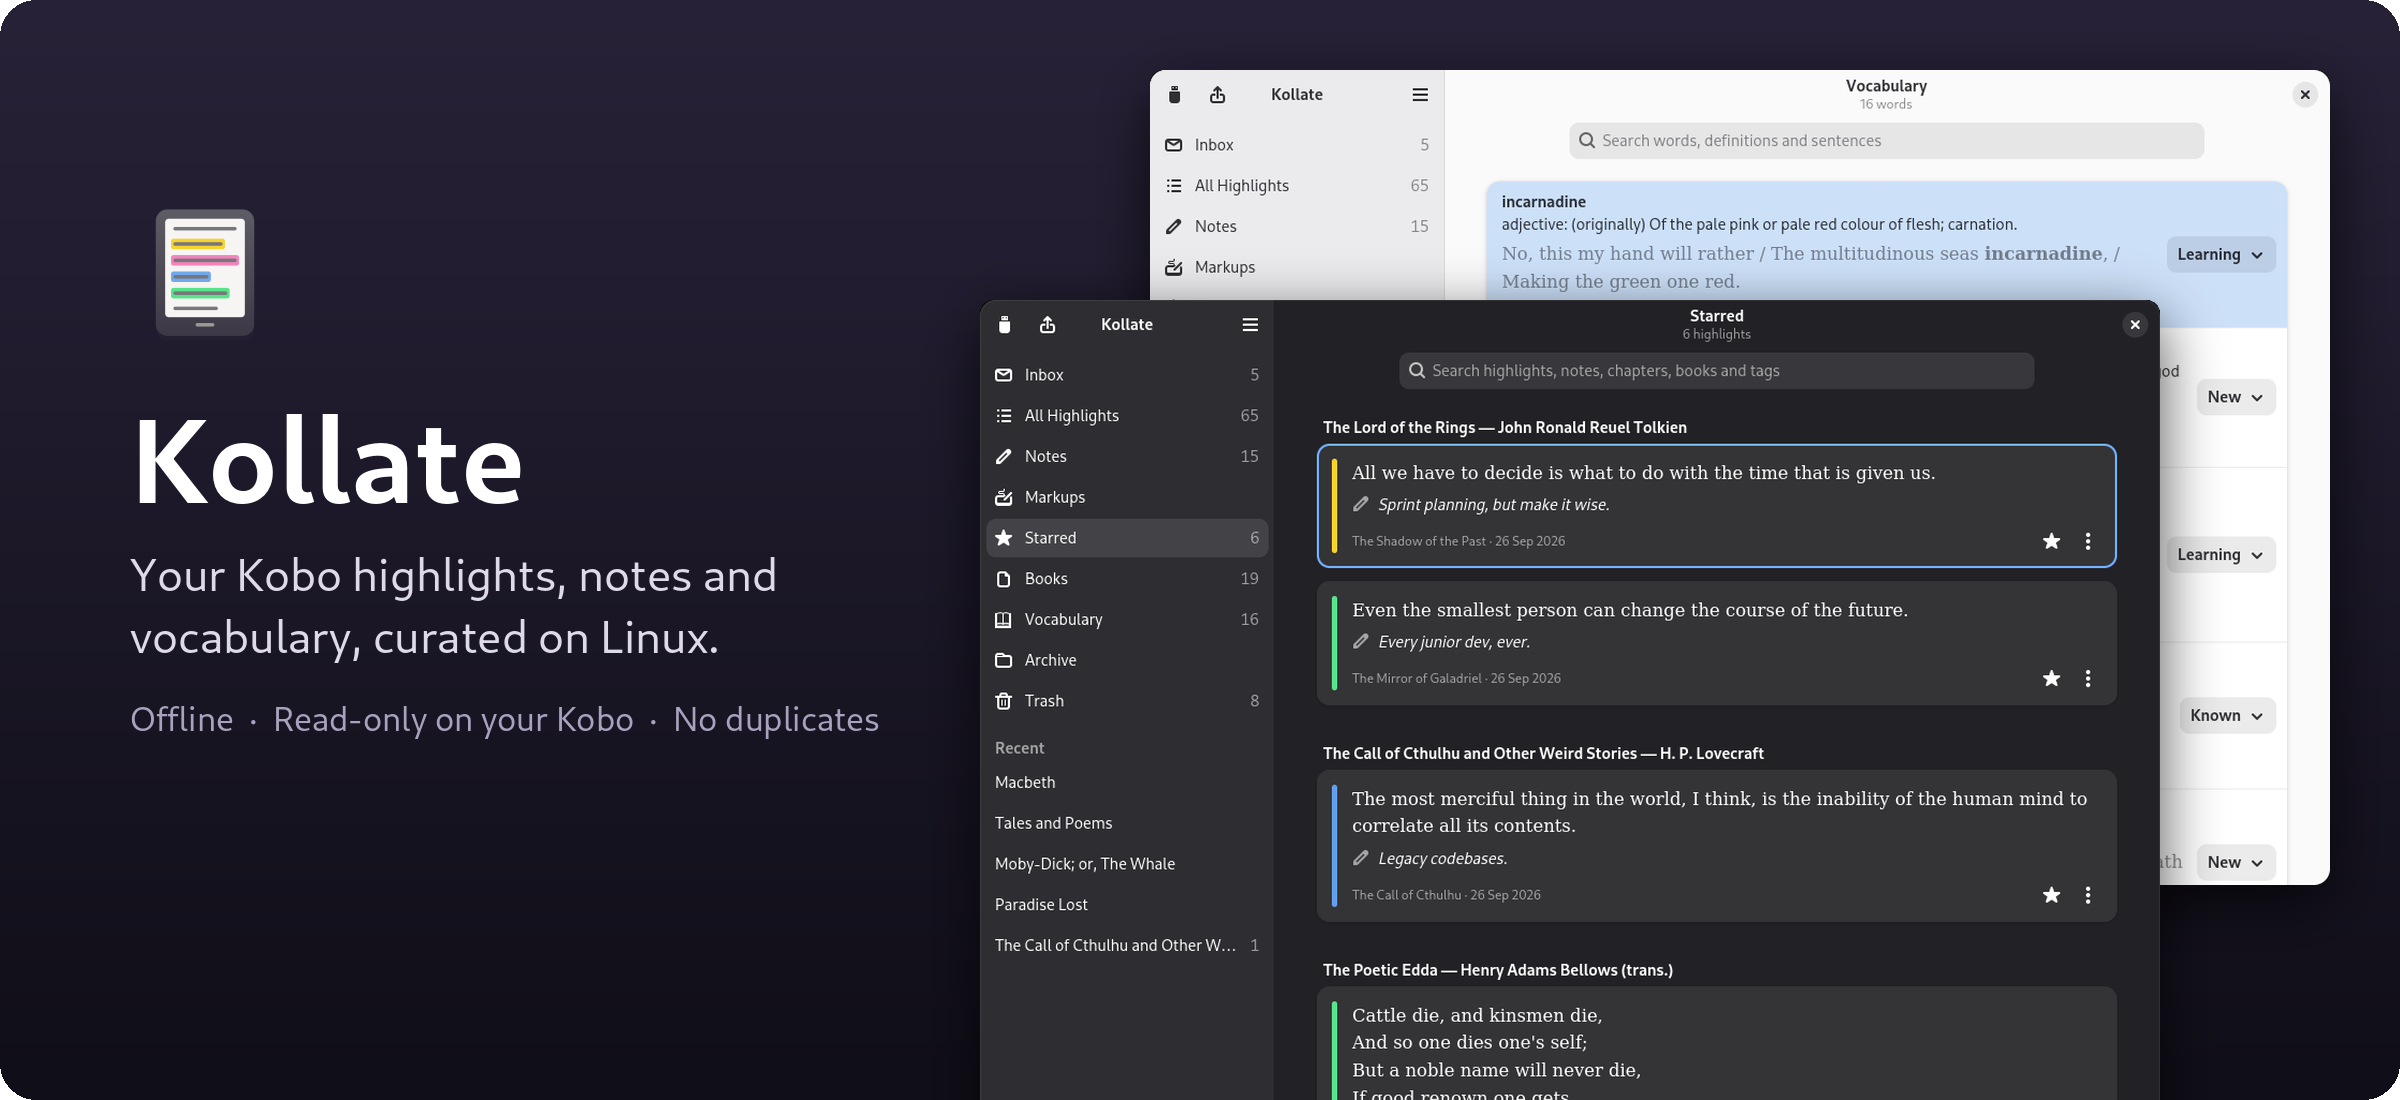
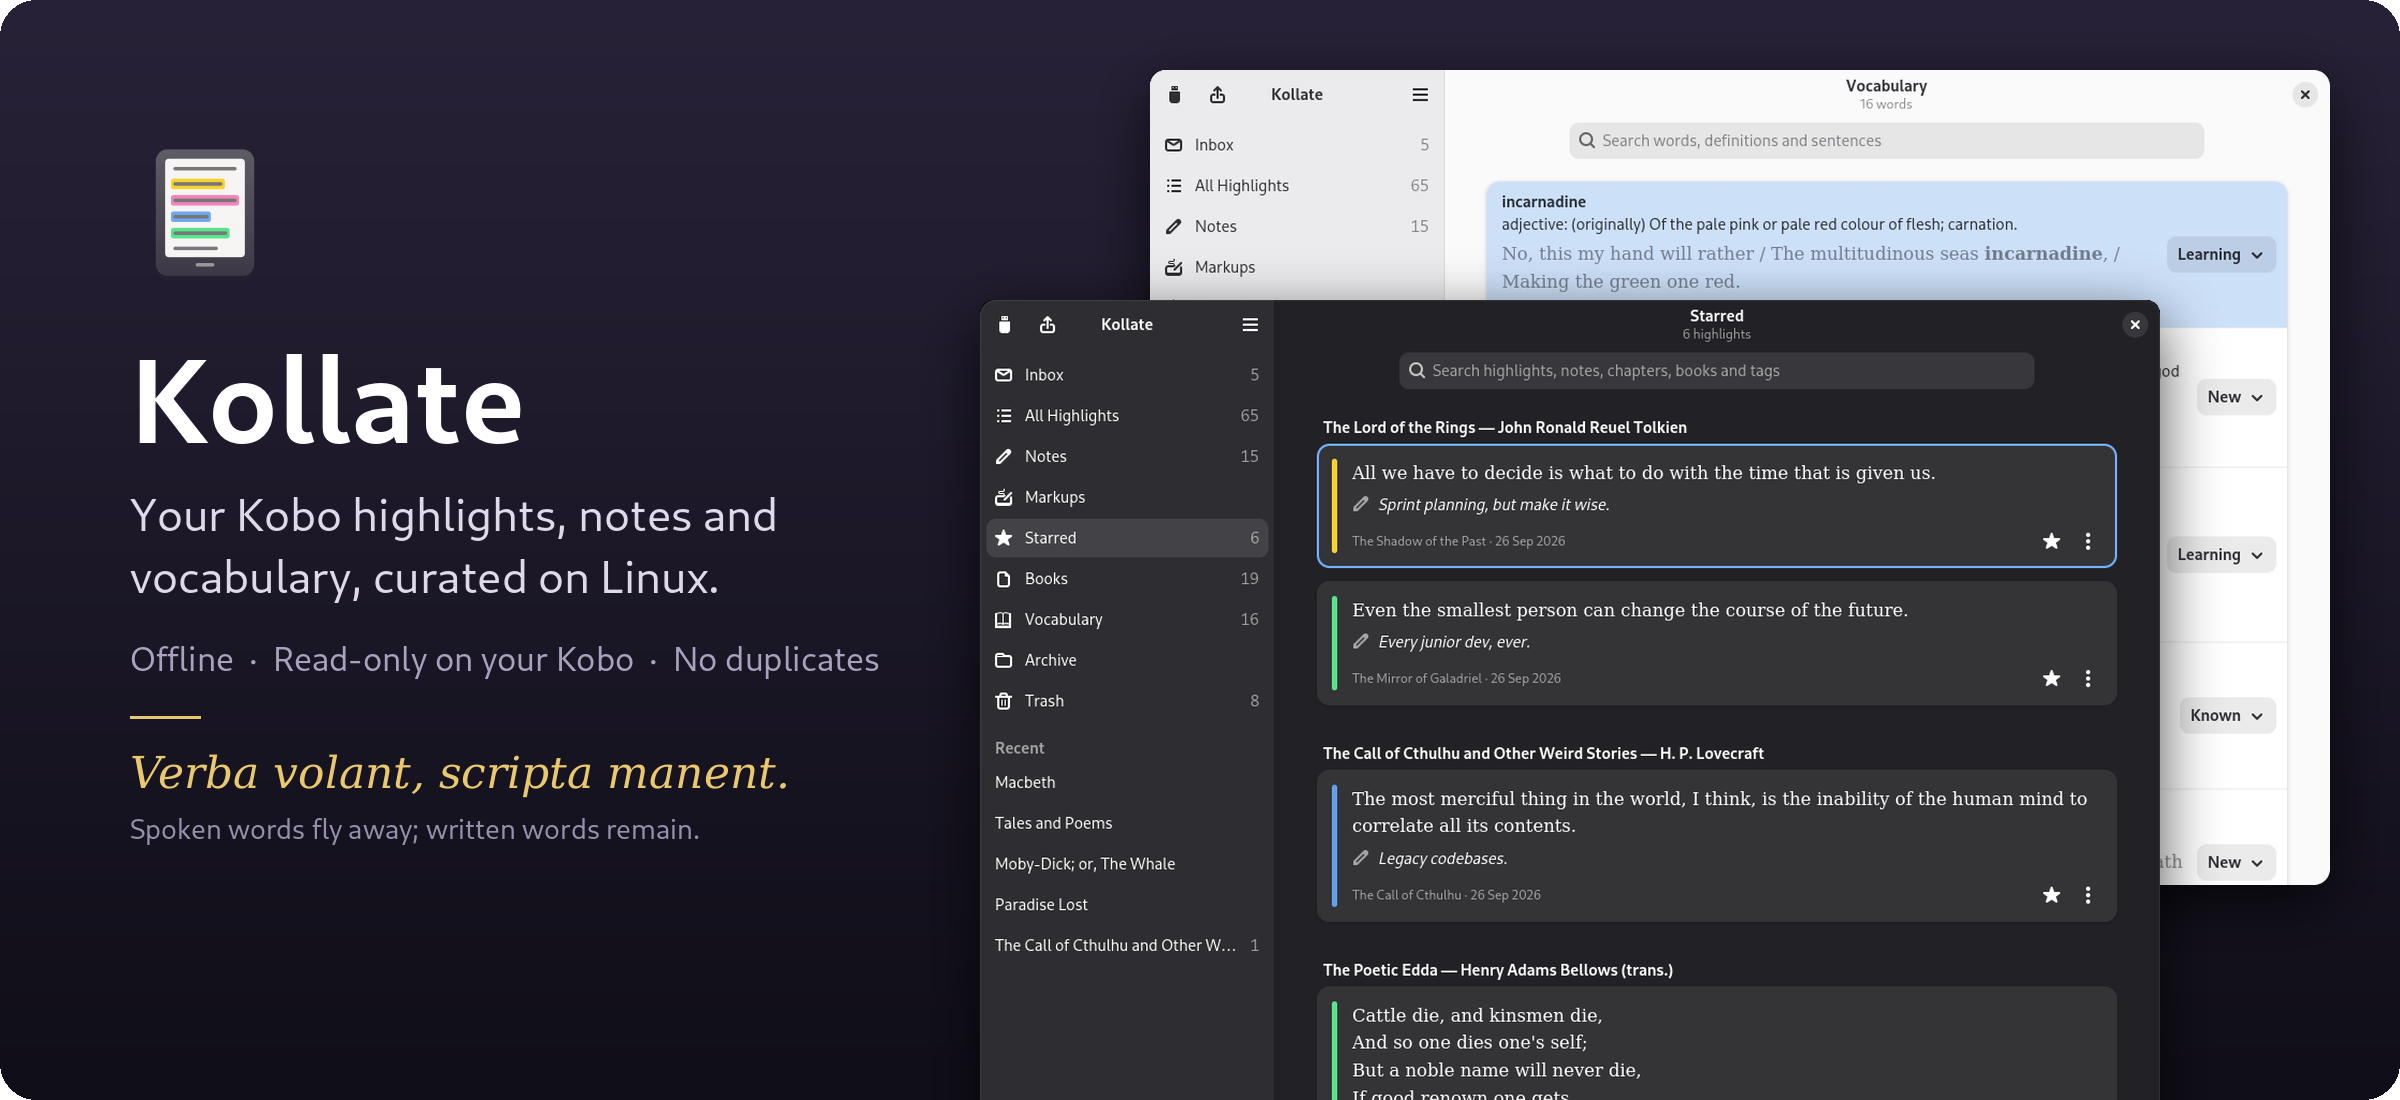
Add "Verba volant, scripta manent" to the hero and social preview

Changed region(s): [[0.0312, 0.1236, 0.375, 0.6182], [0.0625, 0.6491, 0.375, 0.7727]]

diff --git a/README.md b/README.md
@@ -1,5 +1,5 @@
 <p align="center">
-  <img src="docs/hero.png" alt="Kollate: your Kobo highlights, notes and vocabulary, curated on Linux. The dark Starred view in front of the Vocabulary view.">
+  <img src="docs/hero.png" alt="Kollate: your Kobo highlights, notes and vocabulary, curated on Linux. Verba volant, scripta manent: spoken words fly away, written words remain. The dark Starred view in front of the Vocabulary view.">
 </p>
 
 <p align="center">
